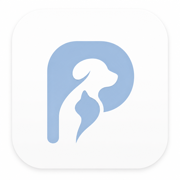
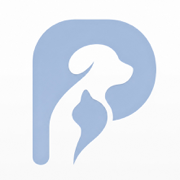
替换为无边框 PalEcho 网站图标

Changed region(s): [[0.1667, 0.0833, 0.8889, 0.9167]]

diff --git a/index.html b/index.html
@@ -14,10 +14,10 @@
 <meta name="twitter:card" content="summary" />
 <meta name="twitter:title" content="PalEcho｜宠物数字生态与AI健康管理" />
 <meta name="twitter:description" content="PalEcho 打造宠物数字生态，覆盖 AI 健康管理、智能硬件与数据平台，让每一次陪伴更安全、更智慧。" />
-<link rel="icon" href="/favicon.ico" sizes="any" />
-<link rel="icon" type="image/png" sizes="32x32" href="/favicon-32x32.png" />
-<link rel="apple-touch-icon" sizes="180x180" href="/apple-touch-icon.png" />
-<link rel="manifest" href="/site.webmanifest" />
+<link rel="icon" href="/favicon.ico?v=20260729-2" sizes="any" />
+<link rel="icon" type="image/png" sizes="32x32" href="/favicon-32x32.png?v=20260729-2" />
+<link rel="apple-touch-icon" sizes="180x180" href="/apple-touch-icon.png?v=20260729-2" />
+<link rel="manifest" href="/site.webmanifest?v=20260729-2" />
 <meta name="theme-color" content="#ffffff" />
 <!-- 引入 Tailwind CSS -->
 <script src="https://image.uc.cn/s/uae/g/3n/mos-production/0915/3.4.17.js"></script>

diff --git a/resume.html b/resume.html
@@ -4,10 +4,10 @@
   <meta charset="UTF-8" />
   <meta name="viewport" content="width=device-width, initial-scale=1.0" />
   <title>投递简历 - PalEcho</title>
-  <link rel="icon" href="/favicon.ico" sizes="any" />
-  <link rel="icon" type="image/png" sizes="32x32" href="/favicon-32x32.png" />
-  <link rel="apple-touch-icon" sizes="180x180" href="/apple-touch-icon.png" />
-  <link rel="manifest" href="/site.webmanifest" />
+  <link rel="icon" href="/favicon.ico?v=20260729-2" sizes="any" />
+  <link rel="icon" type="image/png" sizes="32x32" href="/favicon-32x32.png?v=20260729-2" />
+  <link rel="apple-touch-icon" sizes="180x180" href="/apple-touch-icon.png?v=20260729-2" />
+  <link rel="manifest" href="/site.webmanifest?v=20260729-2" />
   <meta name="theme-color" content="#ffffff" />
   <script src="https://image.uc.cn/s/uae/g/3n/mos-production/0915/3.4.17.js"></script>
   <style>
